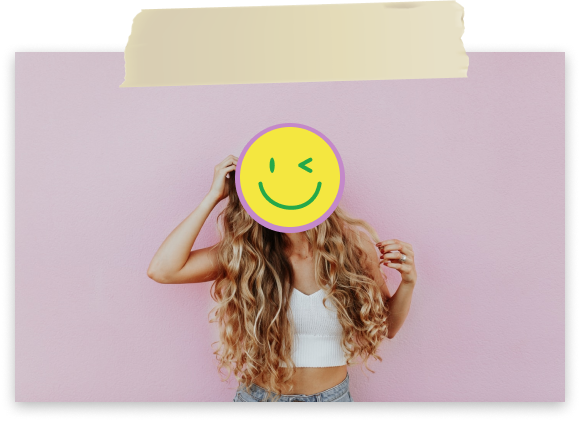
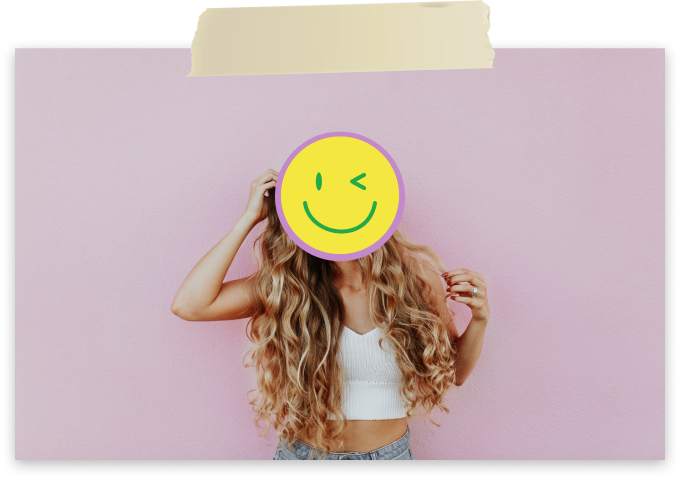
사진 수정

diff --git a/docs/pf/work1/index.css b/docs/pf/work1/index.css
@@ -49,6 +49,7 @@ html {
   top:937px;
   right:150px;
   left:auto;
+  z-index:100;
 }
 
 /* 커스텀 */
@@ -112,23 +113,23 @@ html {
 
 /* 자기소개 */
 .am-img-1 {
-  top: 160px;
-  left: 685px;
+  top: 150px;
+  left: 600px;
 }
 
 .am-img-2 {
-  top: 364px;
+  top: 380px;
   left: 320px;
 }
 
 .am-img-3 {
-  top: 580px;
-  left: 870px;
+  top: 615px;
+  left: 900px;
 }
 
 .am-img-4 {
-  top: 335px;
-  left: 1173px;
+  top: 362px;
+  left: 1199px;
 }
 
 /* 포트폴리오 */
@@ -149,8 +150,8 @@ html {
 }
 
 .ct-img-3-1 {
-  top: 365px;
-  left: 1586px;
+  top: 380px;
+  left: 1585px;
 }
 
 .ct-img-3-2 {
@@ -159,13 +160,13 @@ html {
 }
 
 .ct-img-3-3 {
-  top: 810px;
-  left: 1550px;
+  top: 825px;
+  left: 1560px;
 }
 
 .ct-img-3-4 {
-  top: 720px;
-  left: 980px;
+  top: 700px;
+  left: 970px;
 }
 
 .ct-form-1 {
